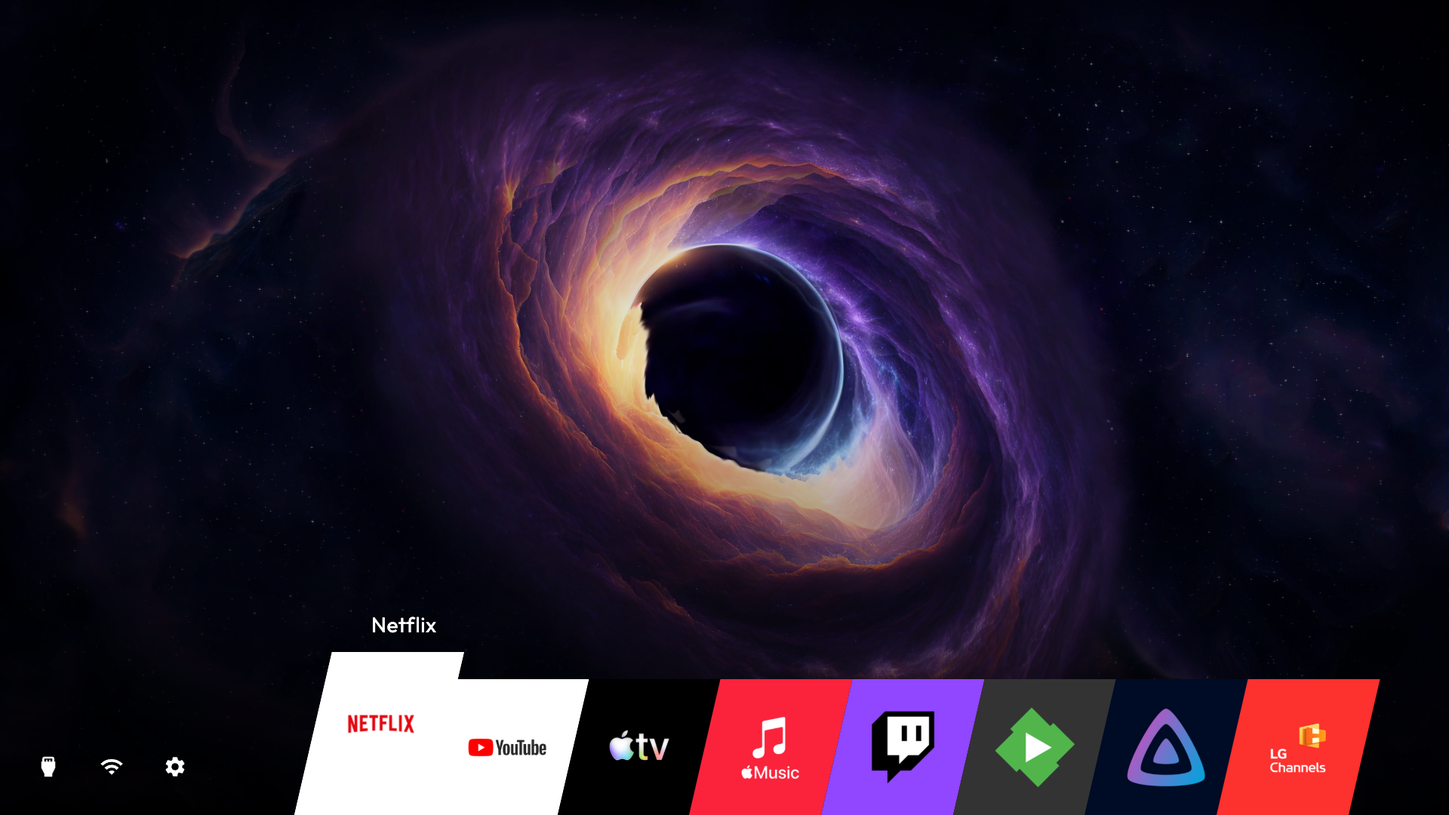
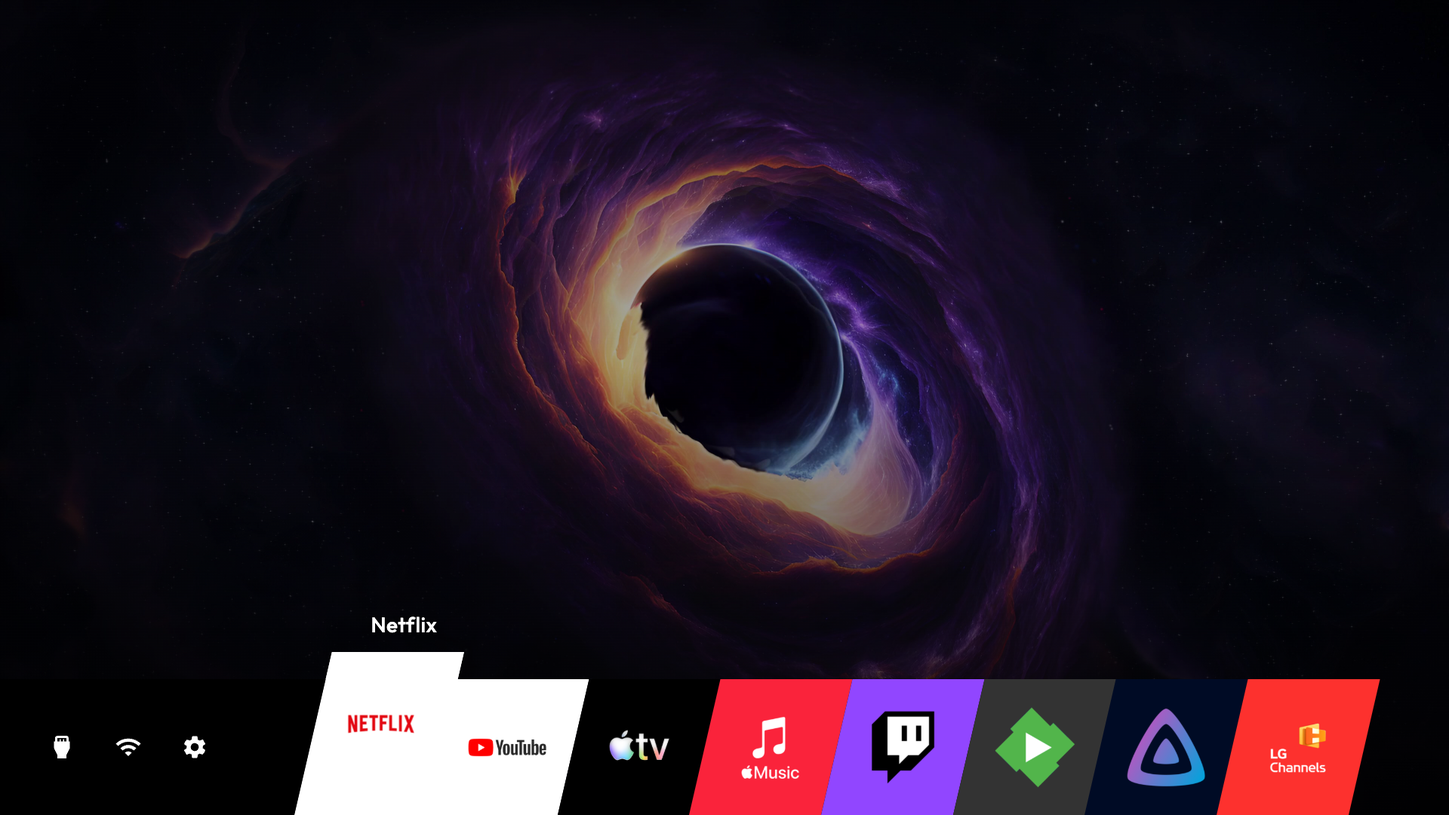
Preserve application background through Ribbon edits and refresh previews

Changed region(s): [[0.3125, 0.0611, 0.75, 0.825], [0.0312, 0.8861, 0.1562, 0.9472], [0.125, 0.275, 0.1562, 0.3056]]

diff --git a/launcher/home-presentation.js b/launcher/home-presentation.js
@@ -5,21 +5,22 @@
 }(this, function () {
   'use strict';
   function create(options) {
-    var generation = 0, visible = false, mode = 'closed', overlayTheme = false;
-    var owners = Object.create(null), startup = false, blocked = false, activationUntil = 0;
+    var generation = 0, launchGeneration = 0, visible = false, mode = 'closed', overlayTheme = false;
+    var owners = Object.create(null), startup = false, blocked = false, opaque = false, activationUntil = 0;
     var now = options.now || Date.now;
     function isBlocked() { return Object.keys(owners).length > 0 || !!(options.blocked && options.blocked()); }
+    function isOpaque() { return Object.keys(owners).length > 0 || !!(options.opaque ? options.opaque() : options.blocked && options.blocked()); }
     function state() { return {mode:mode, visible:visible}; }
     function render() { if (options.render) options.render(state()); }
     function refresh() {
-      var request = ++generation, settled = false;
-      mode = visible ? 'full' : 'closed'; blocked = isBlocked(); render();
-      if (!visible || !options.supported || !overlayTheme || startup || blocked) return;
+      var request = ++generation, settled = false; launchGeneration++;
+      mode = visible ? 'full' : 'closed'; blocked = isBlocked(); opaque = isOpaque(); render();
+      if (!visible || !options.supported || !overlayTheme || startup || opaque) return;
       try {
         options.query(function (content) {
           if (settled || generation !== request || !visible) return;
           settled = true;
-          mode = content === true && !isBlocked() ? 'overlay' : 'full'; render();
+          mode = content === true && !isOpaque() ? 'overlay' : 'full'; render();
         });
       } catch (_) { /* Unknown platform context retains the opaque Home. */ }
     }
@@ -29,14 +30,14 @@
       startup = params.activateType === 'powerOn' || params.reason === 'boot' || params.reason === 'startup';
       visible = true; refresh();
     }
-    function hide() { activationUntil = 0; generation++; visible = false; mode = 'closed'; render(); }
+    function hide() { activationUntil = 0; generation++; launchGeneration++; visible = false; mode = 'closed'; render(); }
     function dismiss() {
       if (!visible || mode !== 'overlay' || isBlocked()) return false;
       hide(); if (options.close) options.close(); return true;
     }
     return {
       state:state,
-      token:function () { return generation; },
+      token:function () { return launchGeneration; },
       show:show,
       hide:hide,
       dismiss:dismiss,
@@ -55,13 +56,16 @@
         if (activating || !dismiss()) show(params);
       },
       launched:function (token) {
-        if (token !== generation || !options.supported || !visible || isBlocked()) return false;
+        if (token !== launchGeneration || !options.supported || !visible || isBlocked()) return false;
         hide(); if (options.close) options.close(); return true;
       },
       setTheme:function (layout) { overlayTheme = !!layout && layout.presentation === 'overlay'; refresh(); },
       suspend:function (owner) { owners[owner] = true; refresh(); },
       resume:function (owner) { if (owners[owner]) { delete owners[owner]; refresh(); } },
-      sync:function () { if (blocked !== isBlocked()) refresh(); }
+      sync:function () {
+        if (opaque !== isOpaque()) refresh();
+        else if (blocked !== isBlocked()) { blocked = isBlocked(); launchGeneration++; }
+      }
     };
   }
   return {create:create};

diff --git a/launcher/app.js b/launcher/app.js
@@ -179,6 +179,7 @@
     },
     blocked: function () { return previewDialogOpen() || !!moveState || !!pickerOpen || !!undoState ||
       !!(window.ThemeRuntime && ThemeRuntime.isSuspended()); },
+    opaque: function () { return previewDialogOpen() || !!(window.ThemeRuntime && ThemeRuntime.isSuspended()); },
     render: function (state) {
       document.documentElement.setAttribute('data-home-presentation', state.mode);
       document.body.setAttribute('data-home-presentation', state.mode);
@@ -455,9 +456,9 @@
     setPartState(item.el, 'moving', true);
     document.body.classList.add('editing');
     document.body.classList.toggle('ribbon-editing', !!layoutGeometry.ribbon);
-    editHint.textContent = layoutGeometry.ribbon ? '← →   ·   OK ✓   ·   ' + tr('Back') + ' ↩   ·   ↑ ×' : tr('← ↑ ↓ → Move   ·   OK Place   ·   Back Cancel   ·   ↓ Below last row to hide');
+    if (!layoutGeometry.ribbon) editHint.textContent = tr('← ↑ ↓ → Move   ·   OK Place   ·   Back Cancel   ·   ↓ Below last row to hide');
     hideButton.hidden = false;
-    editHint.hidden = false;
+    editHint.hidden = !!layoutGeometry.ribbon;
     hideButton.classList.remove('focused');
     hideSelected = false;
     focusTile(tiles.indexOf(item));

diff --git a/launcher/style.css b/launcher/style.css
@@ -929,7 +929,7 @@ body.editing #homeSurface[data-layout="scenic-grid"] .ctv-position { display: no
 /* Ribbon editing keeps the lane anchored and exposes controls at the moving card. */
 body.ribbon-editing #homeSurface[data-ribbon="true"] #viewport,
 body.ribbon-editing #homeSurface[data-ribbon="true"] #stage { top: 0; }
-body.ribbon-editing #homeSurface[data-ribbon="true"] .item .name { display: none !important; }
+body.ribbon-editing #homeSurface.ctv-home[data-ribbon="true"] .item .name { display: none !important; }
 body.ribbon-editing #homeSurface[data-ribbon="true"] .item.moving .card { outline: none; }
 .ribbon-edit-arrow { position: absolute; z-index: 6; width: 40px; height: 48px; font-size: 52px; line-height: 44px; text-align: center; color: #fff; text-shadow: 0 2px 6px #000; pointer-events: none; }
 .ribbon-edit-left { left: -36px; }

diff --git a/docs/i18n/hi.md b/docs/i18n/hi.md
@@ -4,6 +4,8 @@
 
 **अप्रकाशित — ऐप के ऊपर Ribbon:** Root में Ribbon मौजूदा ऐप के ऊपर खुल सकता है। Home से पैनल खुलता है; Back या दोबारा Home से बंद होता है। TV चालू करते समय या पीछे के कंटेंट की पुष्टि न होने पर वॉलपेपर दिखता है; सेटिंग्स अपारदर्शी रहती हैं। TV पर No-root पूर्ण स्क्रीन रहता है। ब्राउज़र डेमो दोनों स्थितियों का अनुकरण करता है; अंतिम पैकेज का डिवाइस परीक्षण अभी बाकी है। [विवरण](../THEMES.md#ribbon-over-applications-unreleased).
 
+Ribbon: संपादन के लिए OK दबाकर रखें; ←/→ कार्ड खिसकाते हैं, ↑ से × (Home से छिपाएँ) चुनें, ↓ से कार्ड पर लौटें, OK पुष्टि करता है और Back रद्द करता है। वर्तमान पृष्ठभूमि बनी रहती है।
+
 **1.7.0 — Root शुरुआती स्रोत:** सेटिंग्स → आपकी Home स्क्रीन में **Home बदलें** चालू करके **पहले Clean Your TV खोलें** बदलें। **LG Channels / लाइव TV** डिफ़ॉल्ट रूप से चालू है; **YouTube** बंद है। Home बदलें बंद होने पर स्विच दिखते हैं लेकिन निष्क्रिय रहते हैं और सहेजे गए मान बने रहते हैं। ये प्राथमिकताएँ इसी TV पर निजी रूप से सहेजी जाती हैं और पोर्टेबल प्रोफ़ाइल निर्यात में शामिल नहीं हैं। इससे TV शुरू होने या स्टैंडबाय से जागने का व्यवहार सत्यापित नहीं होता। किसी स्रोत को बंद रखने पर शुरुआती स्क्रीन का निर्णय TV फ़र्मवेयर करता है; उसी स्रोत पर लौटने की गारंटी नहीं है। HDMI के लिए स्टार्टअप स्विच नहीं है। [नेटिव स्टार्टअप की सीमाएँ (अंग्रेज़ी)](../../root-edition/README.md#candidate-native-startup-choices)।
 
 > यह मार्गदर्शिका 1.7.0 का वर्णन करती है। उपलब्ध पैकेज के लिए [GitHub Releases पर प्रकाशित रिलीज़](https://github.com/Razdva122/clean-your-tv-lg-webos/releases) देखें। इसमें इंस्टॉलर के पाँचों सुधार हैं। दोबारा खोलने पर Root सेटिंग वास्तविक स्थिति पढ़ती है; असफल जाँच Home चालू नहीं करती। System Updater 1.2.0 अनुमत नई स्थापना या सत्यापित 1.1.0/1.1.1 प्रतिस्थापन के लिए है। स्थापित 1.1.2 अपने पुराने चैनल रखता है; सामान्य माइग्रेशन उपलब्ध नहीं है। पुनर्प्राप्ति डेटा सुरक्षित रखें और प्रतिस्थापन को बाध्य न करें। [संस्करण और सीमाएँ](../RELEASE-1.7.0.md)।

diff --git a/docs/i18n/ru.md b/docs/i18n/ru.md
@@ -4,6 +4,8 @@
 
 **Не выпущено — Ribbon поверх приложений:** В Root лента Ribbon может открываться поверх текущего приложения: Home открывает панель, Back или повторный Home закрывает её. При включении ТВ, отсутствии фона или неизвестном состоянии показываются обои; настройки остаются непрозрачными. No-root на ТВ остаётся полноэкранным. В браузерном демо оба состояния моделируются; аппаратная приёмка итогового пакета ещё предстоит. [Подробнее](../THEMES.md#ribbon-over-applications-unreleased).
 
+Ribbon: удерживайте OK для редактирования; ←/→ перемещают карточку, ↑ выбирает × (скрыть с Home), ↓ возвращает к карточке, OK подтверждает, Back отменяет. Текущий фон сохраняется.
+
 **1.7.0 — источники запуска Root:** В Настройки → Ваш экран Home включите **Сменить Home**, чтобы настроить **Сначала открывать Clean Your TV**. **LG Channels / Эфирное ТВ** включено по умолчанию; **YouTube** выключен. При выключенной смене Home переключатели видны, но недоступны; сохранённые значения остаются. Настройки хранятся приватно на этом телевизоре и не входят в переносимый экспорт профиля. Наличие этих настроек не подтверждает работу при включении или выходе из ожидания на ТВ. Для выключенного источника решение о стартовом экране остаётся за прошивкой ТВ; возврат к этому источнику не гарантирован. Переключателя запуска для HDMI нет. [Ограничения нативного запуска (английский)](../../root-edition/README.md#candidate-native-startup-choices).
 
 > Руководство описывает 1.7.0. Доступные пакеты берите из [опубликованных выпусков GitHub Releases](https://github.com/Razdva122/clean-your-tv-lg-webos/releases). Включены все пять улучшений установщика. После повторного открытия настройки Root читают фактическое состояние; неудачная проверка не включает Home. System Updater 1.2.0 предназначен для новой допустимой установки или проверенной замены 1.1.0/1.1.1. Установленный 1.1.2 сохраняет прежние каналы: общей миграции нет. Сохраняйте данные восстановления и не обходите отказ замены. [Версии и ограничения](../RELEASE-1.7.0.md).

diff --git a/docs/i18n/fr.md b/docs/i18n/fr.md
@@ -4,6 +4,8 @@ Non publié (#290) : **+ / Ajouter une app** propose la télévision en direct s
 
 **Non publié — Ribbon au-dessus des applications :** Dans Root, Ribbon peut apparaître sur l’application en cours. Home ouvre la barre ; Retour ou un nouvel appui sur Home la ferme. À l’allumage ou si le contenu derrière est absent ou inconnu, le fond d’écran reste affiché ; les réglages restent opaques. No-root reste en plein écran sur le téléviseur. La démo simule les deux états ; la validation du paquet final sur appareil reste à faire. [Détails](../THEMES.md#ribbon-over-applications-unreleased).
 
+Ribbon : maintenez OK pour modifier ; ←/→ déplace la carte, ↑ sélectionne × (masquer de Home), ↓ revient à la carte, OK confirme et Back annule. Le fond actuel est conservé.
+
 **1.7.0 — sources de démarrage Root :** Dans Paramètres → Votre écran Home, activez **Modifier Home** pour régler **Ouvrir Clean Your TV en premier**. **LG Channels / TV en direct** est activé par défaut ; **YouTube** est désactivé. Quand Modifier Home est désactivé, les interrupteurs restent visibles mais indisponibles, et leurs valeurs sont conservées. Ces préférences restent privées sur ce téléviseur et ne sont pas incluses dans l’export portable du profil. Cela ne confirme pas le comportement au démarrage ou à la sortie de veille. Une source désactivée laisse le choix du démarrage au micrologiciel du téléviseur ; le retour à cette source n’est pas garanti. Aucun interrupteur de démarrage HDMI n’est proposé. [Limites du démarrage natif (anglais)](../../root-edition/README.md#candidate-native-startup-choices).
 
 > Ce guide décrit la version 1.7.0. Utilisez les paquets disponibles dans les [versions publiées sur GitHub Releases](https://github.com/Razdva122/clean-your-tv-lg-webos/releases). Il inclut les cinq améliorations de l’installateur. À leur réouverture, les réglages Root lisent l’état réel ; un contrôle échoué n’active pas Home. System Updater 1.2.0 concerne une nouvelle installation admissible ou le remplacement vérifié de 1.1.0/1.1.1. Le 1.1.2 installé conserve ses anciens canaux ; aucune migration générale n’est fournie. Conservez les données de récupération et ne forcez pas le remplacement. [Versions et limites](../RELEASE-1.7.0.md).

diff --git a/docs/i18n/ko.md b/docs/i18n/ko.md
@@ -4,6 +4,8 @@
 
 **미출시 — 앱 위의 Ribbon:** Root에서는 현재 앱 위에 Ribbon을 표시할 수 있습니다. Home으로 열고 Back 또는 Home을 다시 눌러 닫습니다. TV를 켤 때나 배경 콘텐츠가 없거나 확인되지 않을 때는 배경화면을 표시하며 설정은 불투명하게 유지됩니다. TV의 No-root는 전체 화면을 유지합니다. 브라우저 데모는 두 상태를 모의하며 최종 패키지의 기기 검증은 아직 필요합니다. [자세히](../THEMES.md#ribbon-over-applications-unreleased).
 
+Ribbon: OK를 길게 누르면 편집합니다. ←/→는 카드 이동, ↑는 × 선택(Home에서 숨기기), ↓는 카드로 복귀, OK는 확인, Back은 취소입니다. 현재 배경은 유지됩니다.
+
 **1.7.0 — Root 시작 소스:** 설정 → 내 Home 화면에서 **Home 변경**을 켜면 **Clean Your TV 먼저 열기**를 설정할 수 있습니다. **LG Channels / 실시간 TV**는 기본으로 켜져 있고 **YouTube**는 꺼져 있습니다. Home 변경을 끄면 스위치는 보이지만 사용할 수 없으며 저장한 값은 유지됩니다. 이 설정은 TV에 비공개로 저장되며 이동식 프로필 내보내기에 포함되지 않습니다. 이 후보 기능은 TV 시작이나 대기 모드 복귀가 검증되었다는 뜻이 아닙니다. 소스를 끄면 시작 화면은 TV 펌웨어가 결정하며 해당 소스가 다시 열린다는 보장은 없습니다. HDMI 시작 스위치는 없습니다. [네이티브 시작의 제한(영어)](../../root-edition/README.md#candidate-native-startup-choices).
 
 > 이 안내서는 1.7.0을 설명합니다. 사용 가능한 패키지는 [GitHub Releases에 공개된 배포본](https://github.com/Razdva122/clean-your-tv-lg-webos/releases)에서 받으세요. 설치 프로그램의 다섯 가지 개선이 포함됩니다. Root 설정은 다시 열 때 실제 상태를 읽으며 확인 실패로 Home을 활성화하지 않습니다. System Updater 1.2.0은 허용된 새 설치 또는 검증된 1.1.0/1.1.1 교체용입니다. 설치된 1.1.2는 기존 채널을 유지하며 일반 마이그레이션은 제공하지 않습니다. 복구 데이터를 보존하고 교체를 강제하지 마세요. [버전과 제한](../RELEASE-1.7.0.md).

diff --git a/docs/i18n/de.md b/docs/i18n/de.md
@@ -4,6 +4,8 @@ Noch nicht veröffentlicht (#290): **+ / App hinzufügen** bietet Live TV unter 
 
 **Noch nicht veröffentlicht — Ribbon über Apps:** In Root kann Ribbon über der aktuellen App erscheinen. Home öffnet die Leiste; Zurück oder erneut Home schließt sie. Beim Einschalten sowie ohne sicheren Hintergrund werden die Hintergrundbilder gezeigt; Einstellungen bleiben undurchsichtig. No-root bleibt auf dem TV im Vollbild. Die Browser-Demo simuliert beide Zustände; die Geräteabnahme des fertigen Pakets steht aus. [Details](../THEMES.md#ribbon-over-applications-unreleased).
 
+Ribbon: OK zum Bearbeiten gedrückt halten; ←/→ verschiebt die Karte, ↑ wählt × (von Home ausblenden), ↓ kehrt zur Karte zurück, OK bestätigt und Back bricht ab. Der aktuelle Hintergrund bleibt erhalten.
+
 **1.7.0 — Root-Startquellen:** Unter Einstellungen → Ihr Home-Bildschirm aktivieren Sie **Home ändern**, um **Clean Your TV zuerst öffnen** einzustellen. **LG Channels / Live-TV** ist standardmäßig an; **YouTube** ist aus. Bei ausgeschalteter Home-Änderung bleiben die Schalter sichtbar, aber gesperrt; die Werte bleiben gespeichert. Die Einstellungen werden privat auf diesem TV gespeichert und sind nicht im portablen Profilexport enthalten. Dies bestätigt kein geprüftes Start- oder Aufwachverhalten. Ist eine Quelle ausgeschaltet, entscheidet die TV-Firmware über den Start; die Rückkehr zu dieser Quelle ist nicht garantiert. Es gibt keinen HDMI-Startschalter. [Grenzen des nativen Starts (Englisch)](../../root-edition/README.md#candidate-native-startup-choices).
 
 > Diese Anleitung beschreibt 1.7.0. Verfügbare Pakete finden Sie in den [veröffentlichten GitHub-Releases](https://github.com/Razdva122/clean-your-tv-lg-webos/releases). Enthalten sind alle fünf Installer-Verbesserungen. Root-Einstellungen lesen beim erneuten Öffnen den tatsächlichen Status; ein fehlgeschlagener Test aktiviert Home nicht. System Updater 1.2.0 gilt für zulässige Neueinrichtung oder geprüften Ersatz von 1.1.0/1.1.1. Installiertes 1.1.2 behält seine alten Kanäle; eine allgemeine Migration gibt es nicht. Wiederherstellungsdaten behalten und keinen Ersatz erzwingen. [Versionen und Grenzen](../RELEASE-1.7.0.md).

diff --git a/docs/i18n/it.md b/docs/i18n/it.md
@@ -4,6 +4,8 @@ Non pubblicato (#290): **+ / Aggiungi app** propone la TV in diretta con il nome
 
 **Non pubblicato — Ribbon sopra le app:** In Root, Ribbon può apparire sopra l’app corrente. Home apre la barra; Indietro o un altro Home la chiude. All’accensione o se il contenuto sottostante è assente o sconosciuto, viene mostrato lo sfondo; le impostazioni restano opache. No-root resta a schermo intero sul TV. La demo simula entrambi gli stati; la verifica del pacchetto finale sul dispositivo è ancora da eseguire. [Dettagli](../THEMES.md#ribbon-over-applications-unreleased).
 
+Ribbon: tieni premuto OK per modificare; ←/→ sposta la scheda, ↑ seleziona × (nascondi da Home), ↓ torna alla scheda, OK conferma e Back annulla. Lo sfondo attuale rimane.
+
 **1.7.0 — sorgenti di avvio Root:** In Impostazioni → La tua schermata Home, attiva **Cambia Home** per modificare **Apri prima Clean Your TV**. **LG Channels / TV in diretta** è attivo per impostazione predefinita; **YouTube** è disattivo. Con Cambia Home disattivato, gli interruttori restano visibili ma non disponibili e conservano i valori. Le preferenze restano private su questo TV e non sono incluse nell’esportazione portatile del profilo. Non conferma il comportamento all’avvio o al risveglio del TV. Se una sorgente è disattivata, il firmware del TV decide l’avvio; non è garantito il ritorno a quella sorgente. Non è presente un interruttore di avvio HDMI. [Limiti dell’avvio nativo (inglese)](../../root-edition/README.md#candidate-native-startup-choices).
 
 > Questa guida descrive la versione 1.7.0. Usa i pacchetti disponibili nelle [versioni pubblicate su GitHub Releases](https://github.com/Razdva122/clean-your-tv-lg-webos/releases). Include tutti e cinque i miglioramenti dell’installatore. Alla riapertura, le impostazioni Root leggono lo stato reale; un controllo fallito non attiva Home. System Updater 1.2.0 è destinato a nuove installazioni ammesse o alla sostituzione verificata di 1.1.0/1.1.1. Il 1.1.2 installato mantiene i vecchi canali; non è prevista una migrazione generale. Conserva i dati di recupero e non forzare la sostituzione. [Versioni e limiti](../RELEASE-1.7.0.md).

diff --git a/docs/development/RIBBON-PRESENTATION.md b/docs/development/RIBBON-PRESENTATION.md
@@ -8,10 +8,13 @@ The application remains opaque by default. A theme can request overlay
 presentation only through the paired `overlay-presentation-v1` contract on a
 bounded scenic ribbon. No-root package metadata and Helper are unchanged.
 
-`launcher/home-presentation.js` owns full/overlay/closed state and a generation
-for async context/launch work. Only a fresh positive content observation enables
+`launcher/home-presentation.js` owns full/overlay/closed state, a context generation
+and a separate launch generation. Only a fresh positive content observation enables
 transparency. Power-on, unknown/empty context, suspended themes and actual visible
-dialogs stay opaque. Theme apply/reset/suspend/resume invalidate old work.
+dialogs stay opaque. Tile editing and hide/undo own their controls while retaining
+the active application background; they do not activate the Home wallpaper.
+Entering/leaving control ownership invalidates stale successful launches without
+invalidating a pending context query. Theme apply/reset/suspend/resume invalidate old work.
 Back is handled after dialog/input/reorder ownership. Reopening hidden Home
 refreshes context; ordinary relaunch of a visible transparent bar dismisses it.
 Visibility-first activation notifications are coalesced with their relaunch for
@@ -21,8 +24,8 @@ Successful content launches dismiss the Root host, including opaque themes,
 without claiming successful playback. Failed or superseded launches do not.
 
 The exact `status` payload `{"presentation":"context"}` uses the existing Root
-service boundary and a separate UID-checked, two-second read-only compositor
-request. It returns only `content: true|false|null`; app IDs, raw surfaces and
+service boundary and a separate UID-checked read-only compositor request,
+with a 1.5-second Root subprocess deadline and a two-second UI deadline. It returns only `content: true|false|null`; app IDs, raw surfaces and
 private inventories do not leave that operation. No recovery lock, route write,
 persistent preference, ACG or network listener is added. The native startup
 observer makes a fresh overlay check before remembered-input effects, retaining

diff --git a/docs/i18n/pt-BR.md b/docs/i18n/pt-BR.md
@@ -4,6 +4,8 @@ Não publicado (#290): **+ / Adicionar app** oferece TV ao vivo com o nome forne
 
 **Não lançado — Ribbon sobre aplicativos:** No Root, Ribbon pode aparecer sobre o aplicativo atual. Home abre a barra; Voltar ou outro toque em Home a fecha. Ao ligar ou se o conteúdo de fundo não for confirmado, aparece o papel de parede; as configurações permanecem opacas. No-root continua em tela cheia na TV. A demonstração simula os dois estados; a validação do pacote final no aparelho ainda está pendente. [Detalhes](../THEMES.md#ribbon-over-applications-unreleased).
 
+Ribbon: segure OK para editar; ←/→ move o cartão, ↑ seleciona × (ocultar da Home), ↓ volta ao cartão, OK confirma e Back cancela. O fundo atual é mantido.
+
 **1.7.0 — fontes de inicialização Root:** Em Configurações → Sua tela Home, ative **Alterar Home** para editar **Abrir Clean Your TV primeiro**. **LG Channels / TV ao vivo** vem ativado; **YouTube** vem desativado. Com Alterar Home desligado, os interruptores continuam visíveis, mas indisponíveis, e os valores são mantidos. As preferências ficam privadas nesta TV e não fazem parte da exportação portátil de perfil. Isso não comprova o funcionamento ao ligar ou despertar a TV. Uma fonte desativada deixa a decisão de inicialização para o firmware da TV; não garante o retorno àquela fonte. Não há interruptor de inicialização HDMI. [Limites da inicialização nativa (inglês)](../../root-edition/README.md#candidate-native-startup-choices).
 
 > Este guia descreve a versão 1.7.0. Use os pacotes disponíveis nas [versões publicadas no GitHub Releases](https://github.com/Razdva122/clean-your-tv-lg-webos/releases). Inclui as cinco melhorias do instalador. Ao reabrir, as configurações Root leem o estado real; uma verificação com falha não ativa Home. System Updater 1.2.0 atende à nova instalação permitida ou à substituição verificada de 1.1.0/1.1.1. O 1.1.2 instalado mantém seus canais antigos; não há migração geral. Preserve os dados de recuperação e não force a substituição. [Versões e limites](../RELEASE-1.7.0.md).

diff --git a/docs/i18n/es.md b/docs/i18n/es.md
@@ -4,6 +4,8 @@ Sin publicar (#290): **+ / Añadir app** ofrece TV en directo con el nombre del 
 
 **Sin publicar — Ribbon sobre aplicaciones:** En Root, Ribbon puede mostrarse sobre la aplicación actual. Home abre la barra; Atrás u otra pulsación de Home la cierra. Al encender o si no se confirma el contenido del fondo, se muestra el fondo de pantalla; los ajustes permanecen opacos. No-root sigue a pantalla completa en el TV. La demo simula ambos estados; falta validar el paquete final en el dispositivo. [Detalles](../THEMES.md#ribbon-over-applications-unreleased).
 
+Ribbon: mantén OK para editar; ←/→ mueve la tarjeta, ↑ selecciona × (ocultar de Home), ↓ vuelve a la tarjeta, OK confirma y Back cancela. Se conserva el fondo actual.
+
 **1.7.0 — fuentes de inicio Root:** En Ajustes → Tu pantalla Home, activa **Cambiar Home** para editar **Abrir Clean Your TV primero**. **LG Channels / TV en directo** está activado por defecto; **YouTube** está desactivado. Al desactivar Cambiar Home, los interruptores siguen visibles pero bloqueados y conservan sus valores. Estas preferencias se guardan de forma privada en el televisor y no se incluyen en la exportación portátil del perfil. No confirma el inicio ni la reactivación del TV. Una fuente desactivada deja la decisión de inicio al firmware del TV; no garantiza volver a esa fuente. No hay interruptor de inicio HDMI. [Límites del inicio nativo (inglés)](../../root-edition/README.md#candidate-native-startup-choices).
 
 > Esta guía describe 1.7.0. Descarga los paquetes disponibles desde las [publicaciones de GitHub Releases](https://github.com/Razdva122/clean-your-tv-lg-webos/releases). Incluye las cinco mejoras del instalador. Al reabrirse, Ajustes de Root lee el estado real; una comprobación fallida no activa Home. System Updater 1.2.0 sirve para una instalación nueva admitida o la sustitución verificada de 1.1.0/1.1.1. El 1.1.2 instalado conserva sus canales anteriores; no hay migración general. Conserva los datos de recuperación y no fuerces la sustitución. [Versiones y límites](../RELEASE-1.7.0.md).
